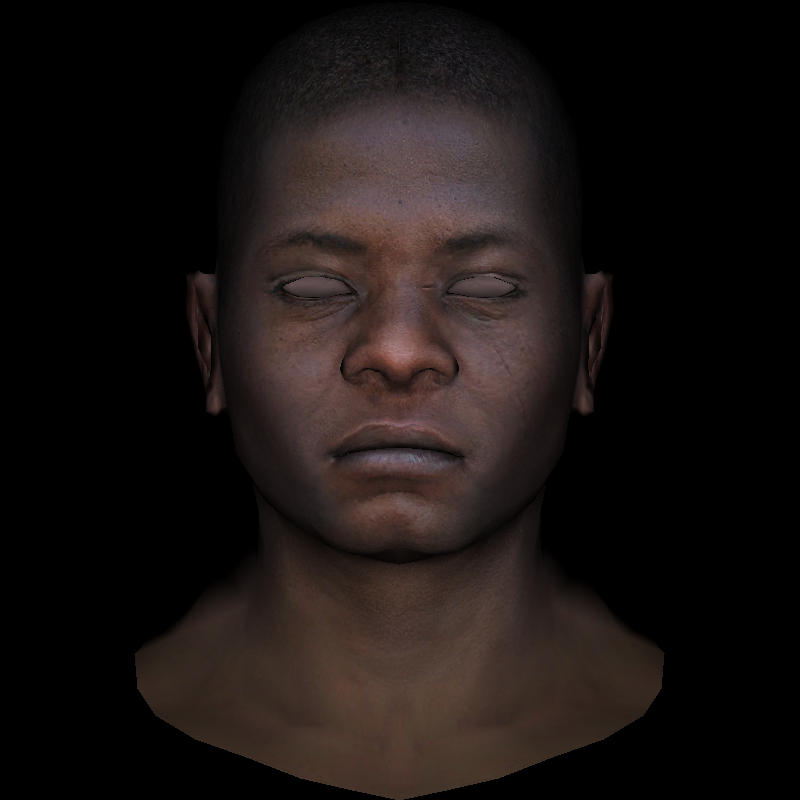
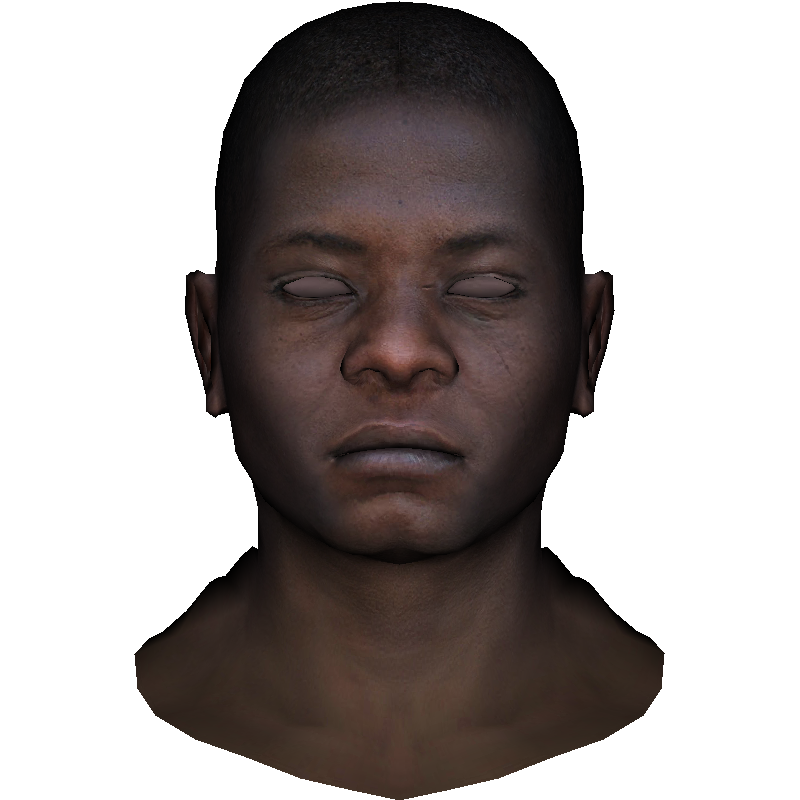
Some cleanup

diff --git a/main.go b/main.go
@@ -2,7 +2,6 @@ package main
 
 import (
 	"image"
-	"image/color"
 	"image/png"
 	"log"
 	"os"
@@ -18,7 +17,7 @@ func absInt(n int) int {
 
 func main() {
 	width, height := 800, 800
-	img := newImage(width, height, colors["black"])
+	img := newImage(width, height)
 
 	obj, err := loadObjFromFile("models/african_head.obj")
 	if err != nil {
@@ -34,16 +33,13 @@ func main() {
 		log.Fatalln("Unable to decode texture:", err)
 	}
 
-	// drawWireframe(img, obj)
-	// drawSolid(img, obj)
-	// drawSolidShading(img, obj)
-	drawSolidShadingWithZBuffer(img, obj, texture)
+	render(img, obj, texture)
 
 	img = flipImageVertically(img)
 	saveImage(img)
 }
 
-func drawSolidShadingWithZBuffer(img *image.RGBA, obj *Obj, texture image.Image) {
+func render(img *image.RGBA, obj *Obj, texture image.Image) {
 	rect := img.Bounds()
 	width := rect.Dx()
 	height := rect.Dy()
@@ -54,7 +50,7 @@ func drawSolidShadingWithZBuffer(img *image.RGBA, obj *Obj, texture image.Image)
 	}
 
 	for _, face := range obj.Faces {
-		screenCoordinates := [3]Point{}
+		triangle := Triangle{}
 
 		for i := 0; i < 3; i++ {
 			vertex := face.Vertices[i]
@@ -62,92 +58,16 @@ func drawSolidShadingWithZBuffer(img *image.RGBA, obj *Obj, texture image.Image)
 			x := (vertex.X + 1.0) * float64(width - 1) / 2
 			y := (vertex.Y + 1.0) * float64(height - 1) / 2
 
-			screenCoordinates[i].X = int(x)
-			screenCoordinates[i].Y = int(y)
+			triangle.points[i].X = int(x)
+			triangle.points[i].Y = int(y)
 		}
 
-		// drawFilledTriangle(img, screenCoordinates[0], screenCoordinates[1], screenCoordinates[2], color.RGBA{uint8(intensity * 255), uint8(intensity * 255), uint8(intensity * 255), 255})
-		drawFilledTriangleZBuffer(
+		drawTriangle(
 			img,
-			screenCoordinates[0],
-			screenCoordinates[1],
-			screenCoordinates[2],
+			triangle,
 			zBuffer,
 			texture,
 			face,
 		)
-	}
-}
-
-func drawSolidShading(img *image.RGBA, obj *Obj) {
-	rect := img.Bounds()
-	width := rect.Dx()
-	height := rect.Dy()
-
-	lightSource := Vertex{0, 0, -1}
-
-	for _, face := range obj.Faces {
-		screenCoordinates := [3]Point{}
-
-		for i := 0; i < 3; i++ {
-			vertex := face.Vertices[i]
-
-			x := (vertex.X + 1.0) * float64(width) / 2
-			y := (vertex.Y + 1.0) * float64(height) / 2
-
-			screenCoordinates[i].X = int(x)
-			screenCoordinates[i].Y = int(y)
-		}
-
-		faceNormal := face.Normal()
-		faceNormal.normalize(1.0)
-		intensity := faceNormal.X * lightSource.X + faceNormal.Y * lightSource.Y + faceNormal.Z * lightSource.Z
-
-		// Back face culling if the intensity of the light is negative (light is coming from behind the face)
-		if intensity > 0 {
-			drawFilledTriangle(img, screenCoordinates[0], screenCoordinates[1], screenCoordinates[2], color.RGBA{uint8(intensity * 255), uint8(intensity * 255), uint8(intensity * 255), 255})
-		}
-	}
-}
-
-func drawSolid(img *image.RGBA, obj *Obj) {
-	rect := img.Bounds()
-	width := rect.Dx()
-	height := rect.Dy()
-
-	for _, face := range obj.Faces {
-		screenCoordinates := [3]Point{}
-
-		for i := 0; i < 3; i++ {
-			vertex := face.Vertices[i]
-
-			x := (vertex.X + 1.0) * float64(width) / 2
-			y := (vertex.Y + 1.0) * float64(height) / 2
-
-			screenCoordinates[i].X = int(x)
-			screenCoordinates[i].Y = int(y)
-		}
-
-		drawFilledTriangle(img, screenCoordinates[0], screenCoordinates[1], screenCoordinates[2], colors["white"])
-	}
-}
-
-func drawWireframe(img *image.RGBA, obj *Obj) {
-	rect := img.Bounds()
-	width := rect.Dx()
-	height := rect.Dy()
-
-	for _, face := range obj.Faces {
-		for i := 0; i < 3; i++ {
-			fromVertex := face.Vertices[i]
-			toVertex := face.Vertices[(i+1) % 3]
-
-			fromX := (fromVertex.X + 1.0) * float64(width) / 2
-			fromY := (fromVertex.Y + 1.0) * float64(height) / 2
-			toX := (toVertex.X + 1.0) * float64(width) / 2
-			toY := (toVertex.Y + 1.0) * float64(height) / 2
-
-			drawLine(img, int(fromX), int(fromY), int(toX), int(toY), colors["white"])
-		}
 	}
 }

diff --git a/obj.go b/obj.go
@@ -10,10 +10,11 @@ import (
 )
 
 type Obj struct {
-	vertices []*Vertex
-	normals  []*Vertex
-	textures []*Vertex
 	Faces    []Face
+
+	vertices []Vertex
+	normals  []Vertex
+	textures []Vertex
 }
 
 func loadObjFromFile(filename string) (*Obj, error) {
@@ -67,6 +68,11 @@ func loadObjFromFile(filename string) (*Obj, error) {
 	if err := scanner.Err(); err != nil {
 		return nil, err
 	}
+
+	// Cleanup
+	obj.vertices = []Vertex{}
+	obj.normals = []Vertex{}
+	obj.textures = []Vertex{}
 
 	return &obj, nil
 }
@@ -167,17 +173,17 @@ func (obj *Obj) parseFaceLine(line string, lineNumber int) error {
 	}
 
 	obj.Faces = append(obj.Faces, Face{
-		Vertices: [3]*Vertex{
+		Vertices: [3]Vertex{
 			firstVertex,
 			secondVertex,
 			thirdVertex,
 		},
-		Textures: [3]*Vertex{
+		Textures: [3]Vertex{
 			firstVertexTexture,
 			secondVertexTexture,
 			thirdVertexTexture,
 		},
-		Normals: [3]*Vertex{
+		Normals: [3]Vertex{
 			firstVertexNormal,
 			secondVertexNormal,
 			thirdVertexNormal,
@@ -187,23 +193,23 @@ func (obj *Obj) parseFaceLine(line string, lineNumber int) error {
 	return nil
 }
 
-func (obj *Obj) resolveVertexId(id int, lineNumber int) (*Vertex, error) {
+func (obj *Obj) resolveVertexId(id int, lineNumber int) (Vertex, error) {
 	if id > len(obj.vertices) {
-		return nil, errors.New(fmt.Sprintf("unable to resolve vertex id %d used on line %d", id, lineNumber))
+		return Vertex{}, errors.New(fmt.Sprintf("unable to resolve vertex id %d used on line %d", id, lineNumber))
 	}
 	return obj.vertices[id-1], nil
 }
 
-func (obj *Obj) resolveVertexNormalId(id int, lineNumber int) (*Vertex, error) {
+func (obj *Obj) resolveVertexNormalId(id int, lineNumber int) (Vertex, error) {
 	if id > len(obj.normals) {
-		return nil, errors.New(fmt.Sprintf("unable to resolve vertex normal id %d used on line %d", id, lineNumber))
+		return Vertex{}, errors.New(fmt.Sprintf("unable to resolve vertex normal id %d used on line %d", id, lineNumber))
 	}
 	return obj.normals[id-1], nil
 }
 
-func (obj *Obj) resolveVertexTextureId(id int, lineNumber int) (*Vertex, error) {
+func (obj *Obj) resolveVertexTextureId(id int, lineNumber int) (Vertex, error) {
 	if id > len(obj.textures) {
-		return nil, errors.New(fmt.Sprintf("unable to resolve vertex texture id %d used on line %d", id, lineNumber))
+		return Vertex{}, errors.New(fmt.Sprintf("unable to resolve vertex texture id %d used on line %d", id, lineNumber))
 	}
 	return obj.textures[id-1], nil
 }
@@ -244,7 +250,7 @@ func (obj *Obj) parseVertexLine(line string, lineNumber int) error {
 		return errors.New(fmt.Sprintf("invalid float z coordinate found in vertex directive on line %d", lineNumber))
 	}
 
-	obj.vertices = append(obj.vertices, &vertex)
+	obj.vertices = append(obj.vertices, vertex)
 
 	return nil
 }
@@ -285,7 +291,7 @@ func (obj *Obj) parseVertexNormalLine(line string, lineNumber int) error {
 		return errors.New(fmt.Sprintf("invalid float z coordinate found in vertex normal directive on line %d", lineNumber))
 	}
 
-	obj.normals = append(obj.normals, &vertexNormal)
+	obj.normals = append(obj.normals, vertexNormal)
 
 	return nil
 }
@@ -326,7 +332,7 @@ func (obj *Obj) parseVertexTextureLine(line string, lineNumber int) error {
 		return errors.New(fmt.Sprintf("invalid float z coordinate found in vertex texture directive on line %d", lineNumber))
 	}
 
-	obj.textures = append(obj.textures, &vertexTexture)
+	obj.textures = append(obj.textures, vertexTexture)
 
 	return nil
 }

diff --git a/triangle.go b/triangle.go
@@ -9,40 +9,23 @@ type Point struct {
 	X, Y int
 }
 
-func sign(v1, v2, v3 Point) int {
-	return (v1.X - v3.X) * (v2.Y - v3.Y) - (v2.X - v3.X) * (v1.Y - v3.Y)
+type Triangle struct {
+	points [3]Point
 }
 
 func pointInTriangle(point Point, v1, v2, v3 Point) bool {
-	b1 := sign(point, v1, v2) < 0.0
-	b2 := sign(point, v2, v3) < 0.0
-	b3 := sign(point, v3, v1) < 0.0
-
-	return b1 == b2 && b2 == b3
+	w1, w2, _ := barycentric(point, v1, v2, v3)
+	return w1 >= 0 && w1 <= 1 && w2 >= 0 && w2 <= 1 && w1 + w2 <= 1
 }
 
-/*
-func pointInTriangle(point Point, v1, v2, v3 Point) bool {
-	w1, w2, w3 := barycentric(point, v1, v2, v3)
-	return w1 >= 0 && w2 >= 0 && w3 >= 0
-}
-*/
-
-func drawFilledTriangle(img *image.RGBA, v1, v2, v3 Point, c color.Color) {
-	min, max := boundingBox(v1, v2, v3)
-	for x := min.X; x <= max.X; x++ {
-		for y := min.Y; y <= max.Y; y++ {
-			if pointInTriangle(Point{x, y}, v1, v2, v3) {
-				img.Set(x, y, c)
-			}
-		}
-	}
-}
-
-func drawFilledTriangleZBuffer(img *image.RGBA, v1, v2, v3 Point, zBuffer []float64, texture image.Image, face Face) {
+func drawTriangle(img *image.RGBA, triangle Triangle, zBuffer []float64, texture image.Image, face Face) {
 	width := img.Bounds().Dx()
 
 	lightSource := Vertex{0, 0, 1}
+
+	v1 := triangle.points[0]
+	v2 := triangle.points[1]
+	v3 := triangle.points[2]
 
 	min, max := boundingBox(v1, v2, v3)
 	for x := min.X; x <= max.X; x++ {

diff --git a/image.go b/image.go
@@ -20,11 +20,11 @@ func saveImage(img image.Image) {
 	}
 }
 
-func newImage(width, height int, c color.Color) *image.RGBA {
+func newImage(width, height int) *image.RGBA {
 	img := image.NewRGBA(image.Rectangle{Max: image.Point{X: width, Y: height}})
 	for x := 0; x < width; x++ {
 		for y := 0; y < height; y++ {
-			img.Set(x, y, c)
+			img.Set(x, y, color.RGBA{R: 0, G: 0, B: 0, A: 0})
 		}
 	}
 	return img
@@ -32,7 +32,7 @@ func newImage(width, height int, c color.Color) *image.RGBA {
 
 func flipImageVertically(img *image.RGBA) *image.RGBA {
 	bounds := img.Bounds()
-	rgba := newImage(bounds.Max.X, bounds.Max.Y, colors["black"])
+	rgba := newImage(bounds.Max.X, bounds.Max.Y)
 	for x := 0; x < bounds.Max.X; x++ {
 		for y := 0; y < bounds.Max.Y; y++ {
 			rgba.Set(x, bounds.Max.Y - y, img.At(x, y))

diff --git a/face.go b/face.go
@@ -1,29 +1,9 @@
 package main
 
 type Face struct {
-	Vertices [3]*Vertex
-	Textures [3]*Vertex
-	Normals [3]*Vertex
-}
-
-func (face *Face) Normal() Vertex {
-	a := Vertex{
-		X: face.Vertices[2].X - face.Vertices[0].X,
-		Y: face.Vertices[2].Y - face.Vertices[0].Y,
-		Z: face.Vertices[2].Z - face.Vertices[0].Z,
-	}
-
-	b := Vertex{
-		X: face.Vertices[1].X - face.Vertices[0].X,
-		Y: face.Vertices[1].Y - face.Vertices[0].Y,
-		Z: face.Vertices[1].Z - face.Vertices[0].Z,
-	}
-
-	return Vertex{
-		X: a.Y * b.Z - a.Z * b.Y,
-		Y: a.Z * b.X - a.X * b.Z,
-		Z: a.X * b.Y - a.Y * b.X,
-	}
+	Vertices [3]Vertex
+	Textures [3]Vertex
+	Normals [3]Vertex
 }
 
 // The trick to Barycentric Coordinates is to find the weights for V1, V2, and V3 that balance the following system of equations:
